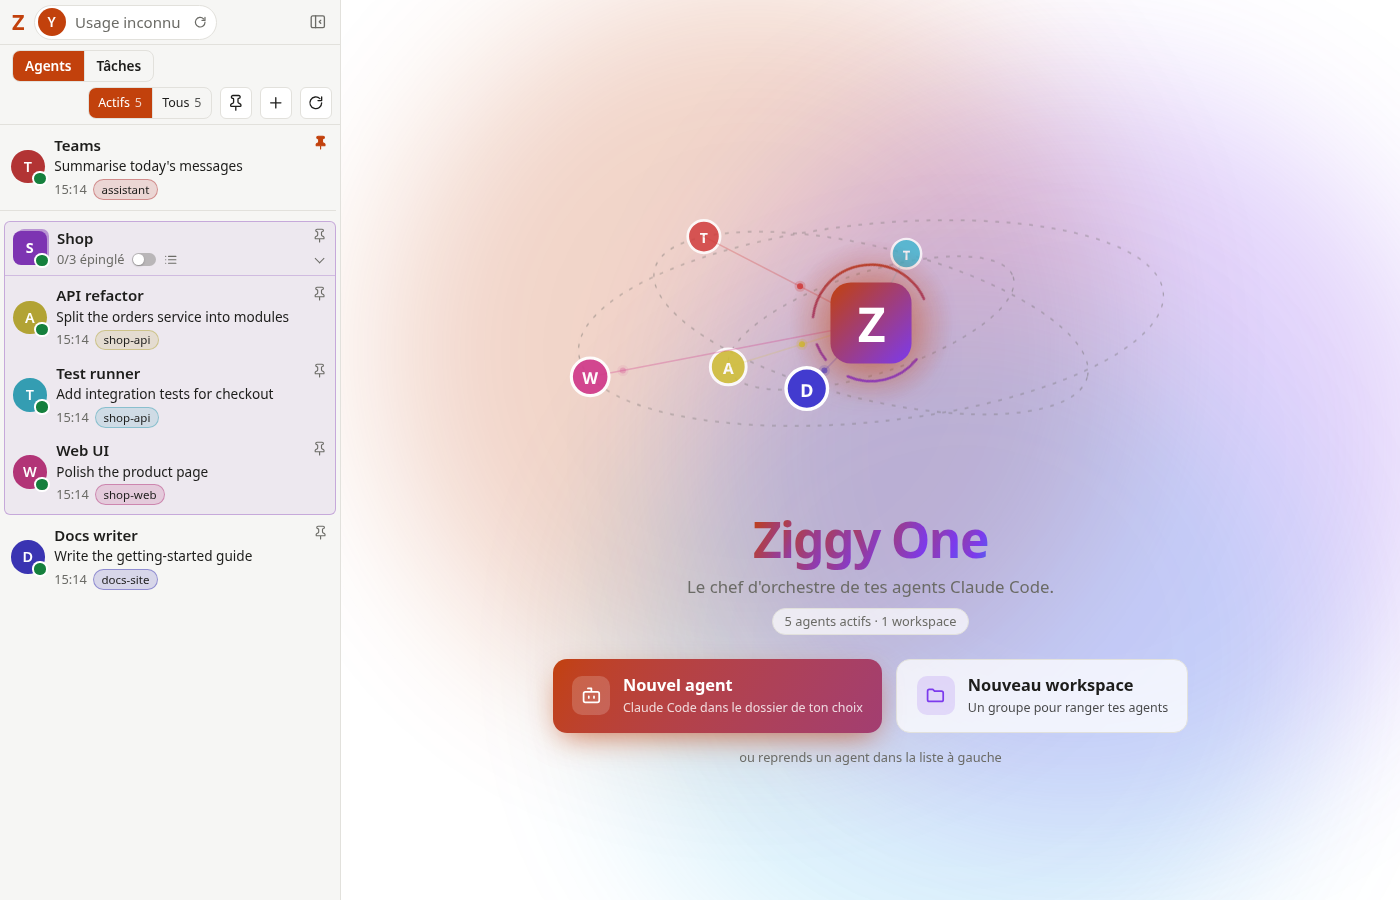
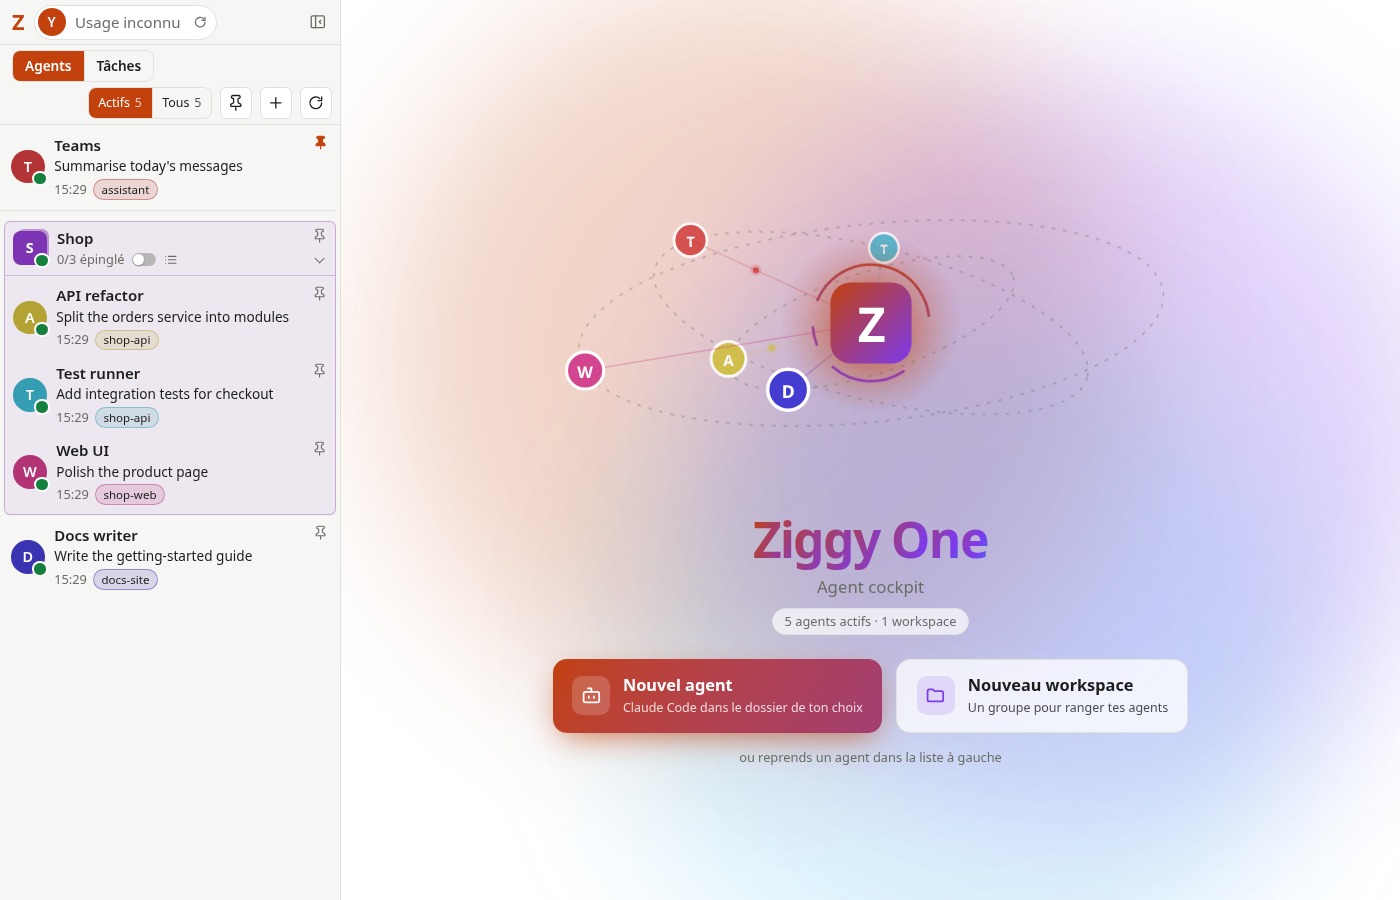
Tagline: "Agent cockpit"
Welcome screen and README now present Ziggy One as an agent cockpit; welcome screenshot updated.

diff --git a/web/hero.js b/web/hero.js
@@ -118,7 +118,7 @@ export function createHero(options) {
     span.style.setProperty("--i", String(i));
     title.append(span);
   });
-  copy.append(title, el("p", "hero-tagline", "Le chef d'orchestre de tes agents Claude Code."));
+  copy.append(title, el("p", "hero-tagline", "Agent cockpit"));
   if (options.stats) copy.append(el("p", "hero-stats", options.stats));
   const actions = el("div", "hero-actions");
   const make = (/** @type {string} */ label, /** @type {string} */ sub, /** @type {string} */ path, /** @type {string} */ kind, /** @type {() => void} */ onClick) => {

diff --git a/README.md b/README.md
@@ -1,6 +1,6 @@
 # Ziggy One
 
-**A local web cockpit for running many [Claude Code](https://docs.anthropic.com/en/docs/claude-code) agents side by side.**
+**Agent cockpit: run many [Claude Code](https://docs.anthropic.com/en/docs/claude-code) agents side by side, and stay in control.**
 
 Each agent is the real, interactive Claude Code running in its own terminal, in the browser. Ziggy One keeps them
 organised (workspaces, pins, names, avatars), shows what they are doing (live status, context usage, a readable
